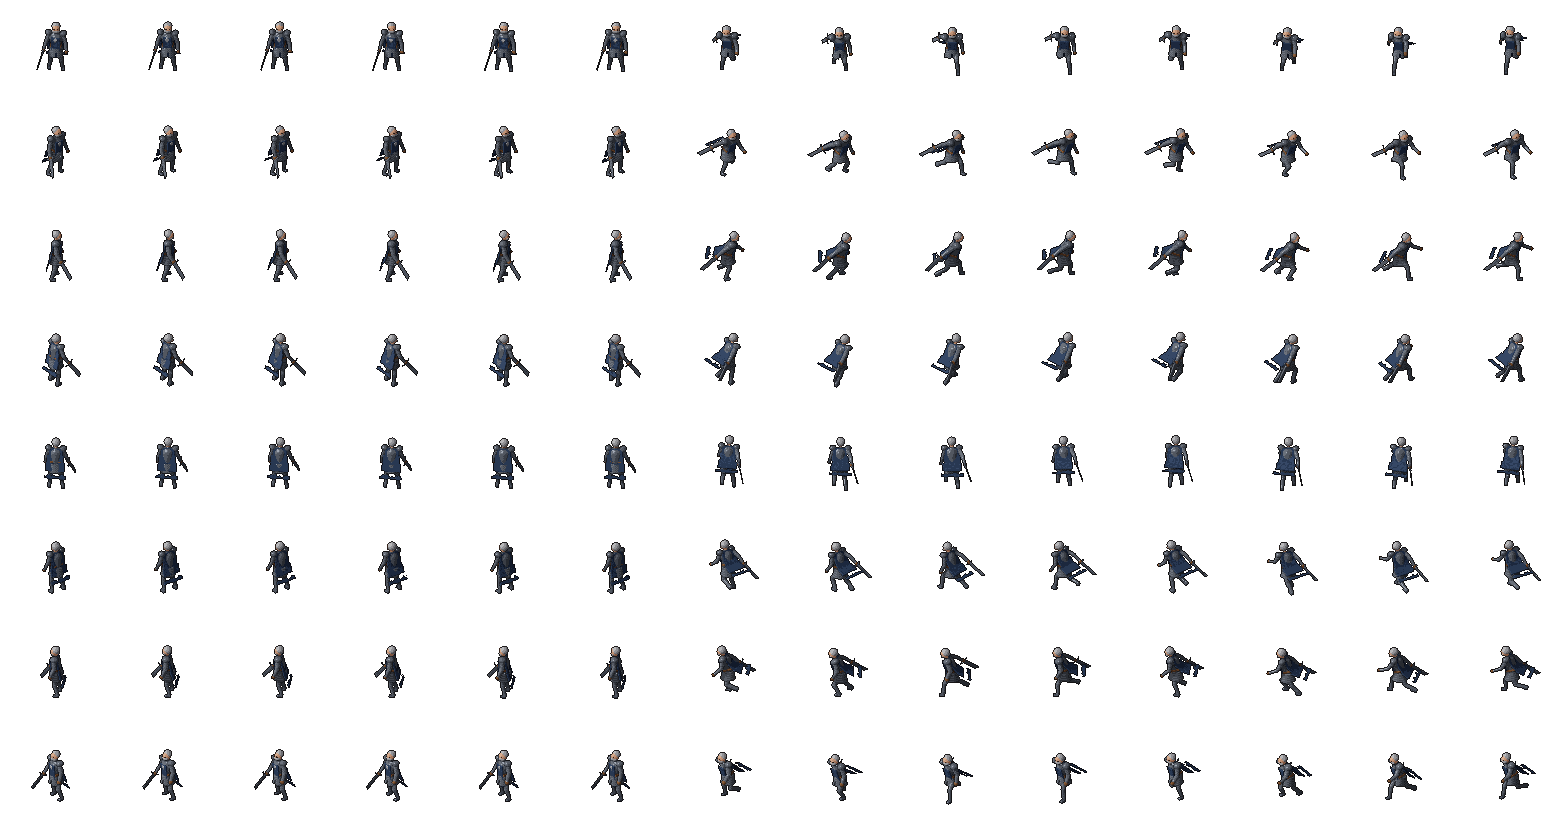
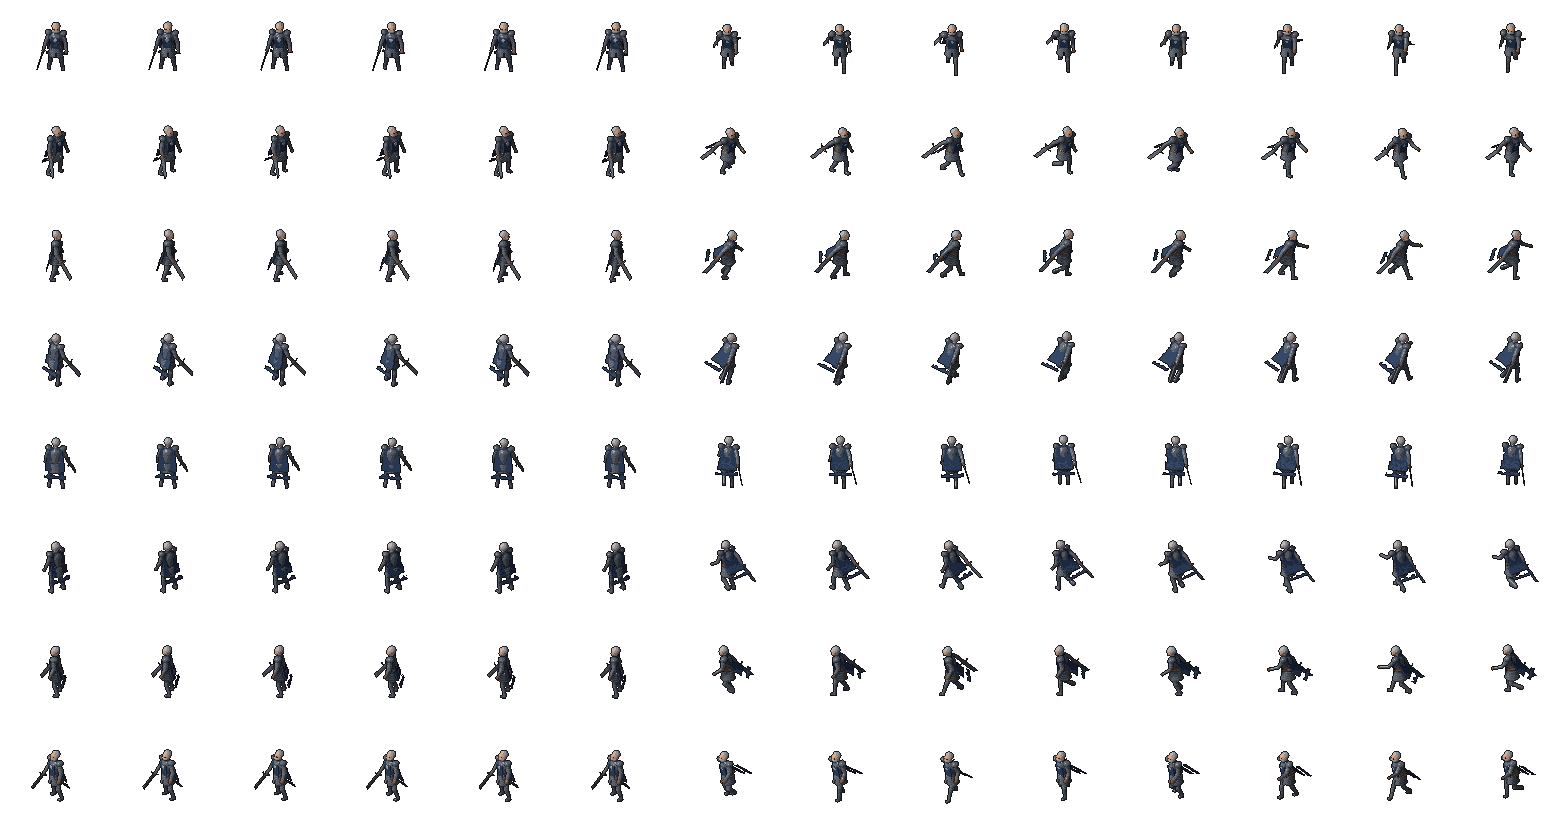
달리기 동작 자연스럽게: 보행 자료 기반 다리 곡선
- 고관절: 앞 24°·뒤 8°(기사 26°/10°)로 비대칭 — 예전 ±28°(기사 ±34°)는 다리가 쩍 벌어져 보였음
- 무릎: 딛는 동안 살짝 굽혀 충격 흡수, 공중에서만 접힘 / 발은 몸 밑 가운데로(옆 벌림 5→1.5)
- 몸 위아래는 세모꼴 파형(착지 직후 가장 낮게), 팔은 다리와 반대로
- 걷기 칸만 다시 굽기(rebake_walk.py): 3직업 + 사람형 몬스터, NPC 12명도 다시 굽기

Claude-Session: https://claude.ai/code/session_01VAPQ8PpUfMXFvxEVvViaXK

diff --git a/forgotten-forge/tools/lineage/humanoid.py b/forgotten-forge/tools/lineage/humanoid.py
@@ -775,6 +775,35 @@ ATK_BLADE = [
 LEG_KEYS = ('lhip', 'rhip', 'lhip_side', 'rhip_side', 'lknee', 'rknee')
 
 
+def _sstep(u):
+    u = min(1.0, max(0.0, u))
+    return u * u * (3 - 2 * u)
+
+
+def gait_leg(phi, fwd=24.0, back=8.0, knee_swing=52.0, duty=0.42):
+    """다리 한쪽의 (고관절 각, 무릎 각). phi: 0=발뒤꿈치 닿음(앞으로 가장 멀리) → 1 한 바퀴.
+    참고: 달리기 보행 자료(고관절 약 55° 굽힘 ~ 10° 폄, 무릎은 공중에서만 크게 접힘)를
+    작은 도트 캐릭터에 맞게 줄임 — 앞으로는 크게, 뒤로는 조금만 → 다리가 가랑이처럼 쩍 벌어지지 않음.
+    - 딛는 구간(0~duty): 고관절이 앞→뒤로 지나가며 몸을 밀고, 무릎은 착지 충격에 살짝 굽혔다 폄
+    - 공중 구간(duty~1): 뒷발이 땅을 차고 올라오며 무릎이 접히고(발이 엉덩이 쪽), 앞으로 뻗어 다시 착지"""
+    phi %= 1.0
+    if phi < duty:
+        u = phi / duty
+        hip = fwd + (-back - fwd) * _sstep(u)
+        knee = 10 + 12 * u + 14 * math.sin(math.pi * u)          # 착지 흡수 → 차고 나가기 직전
+    else:
+        u = (phi - duty) / (1 - duty)
+        hip = -back + (fwd + back) * _sstep(u * 1.08)            # 조금 일찍 앞으로 뻗어 착지 준비
+        knee = 22 * (1 - u) + 10 * u + knee_swing * math.sin(math.pi * min(1.0, u * 1.15)) ** 1.3
+    return hip, knee
+
+
+def gait_bob(t):
+    """몸 위아래: 한 걸음(반 바퀴)에 한 번, 착지 직후 가장 낮고 다리가 엇갈릴 때 가장 높음 — 사인 대신 세모꼴 파형."""
+    w = (t * 2 + 0.85) % 1.0
+    return 1 - abs(2 * w - 1)
+
+
 def pose_for(kind, anim, f, n):
     """kind: 'sword' | 'axe' | 'great' | 'bow' | 'staff'"""
     t = f / n
@@ -798,38 +827,37 @@ def pose_for(kind, anim, f, n):
         return Pose(**p)
 
     if anim == 'walk' and kind == 'blade':
-        # 참고 시트의 이동: 상체를 깊이 숙이고, 검은 뒤로 낮게 끌며, 망토는 크게 휘날림
+        # 기사 달리기: 상체를 앞으로 숙이고 검은 뒤로 낮게 끎. 다리는 보행 자료 곡선(앞 크게·뒤 작게), 발은 몸 밑으로
         sw = math.sin(ph)
         cw = math.cos(ph)
-        lift_l = max(0.0, cw) ** 1.3
-        lift_r = max(0.0, -cw) ** 1.3
-        contact = 1 - abs(cw)
-        p = dict(lhip=6 + 34 * sw, rhip=6 - 34 * sw,
-                 lknee=26 + 50 * lift_l + 10 * contact, rknee=26 + 50 * lift_r + 10 * contact,
-                 lhip_side=6, rhip_side=6, lean=20, twist=-8 * sw + 6, roll=2.5 * cw, head=-12 + 2 * contact,
-                 rsh=-38 - 8 * sw, rab=22, rel=12, wpn=-30, wpn_side=18,
-                 lsh=30 - 26 * sw, lab=16, lel=40, cape=15 + 5 * abs(cw), bob=0.4 * abs(math.sin(ph)))
+        lh, lk = gait_leg(t + 0.75, fwd=26, back=10, knee_swing=56)
+        rh, rk = gait_leg(t + 0.25, fwd=26, back=10, knee_swing=56)
+        p = dict(lhip=lh, rhip=rh, lknee=lk, rknee=rk,
+                 lhip_side=1.5, rhip_side=1.5, lean=14, twist=-7 * sw + 5, roll=1.6 * cw, head=-8,
+                 rsh=-34 - 10 * sw, rab=18, rel=14, wpn=-28, wpn_side=16,
+                 lsh=26 - 30 * sw, lab=12, lel=42, cape=13 + 5 * abs(cw), bob=0.15 + 0.55 * gait_bob(t))
         return Pose(**p)
 
     if anim == 'walk':
-        # 무기를 겨눈 채 낮은 자세로 걷기: 보폭은 넓고, 디딜 때 무릎으로 충격 흡수
+        # 가볍게 달리기: 보행 자료 곡선(앞 크게·뒤 작게) + 발은 몸 밑 가운데로, 팔은 다리와 반대로
         sw = math.sin(ph)
         cw = math.cos(ph)
-        lift_l = max(0.0, cw) ** 1.3
-        lift_r = max(0.0, -cw) ** 1.3
-        contact = 1 - abs(cw)
+        lh, lk = gait_leg(t + 0.75)
+        rh, rk = gait_leg(t + 0.25)
         p = dict(base)
-        p.update(lhip=4 + 28 * sw, rhip=-4 - 28 * sw,
-                 lknee=16 + 42 * lift_l + 8 * contact, rknee=16 + 42 * lift_r + 8 * contact,
-                 lhip_side=5, rhip_side=5,
-                 lean=base['lean'] + 1, twist=base['twist'] * 0.5 - 7 * sw, roll=2.2 * cw, head=1.5 * contact,
-                 head_yaw=base.get('head_yaw', 0) * 0.5, cape=9 + 5 * abs(cw))
+        p.update(lhip=lh, rhip=rh, lknee=lk, rknee=rk,
+                 lhip_side=1.5, rhip_side=1.5,
+                 lean=base['lean'] + 4, twist=base['twist'] * 0.4 - 6 * sw, roll=1.6 * cw, head=1.0,
+                 head_yaw=base.get('head_yaw', 0) * 0.4, cape=9 + 5 * abs(cw))
         if kind == 'staff':
-            p['lsh'] = base['lsh'] - 22 * sw
+            p['lsh'] = base['lsh'] - 26 * sw
+            p['lel'] = base.get('lel', 30) + 10
         elif kind != 'bow':
-            p['lsh'] = base['lsh'] - 8 * sw
-        p['rsh'] = base['rsh'] + 10 * sw
-        p['bob'] = 0.3 * abs(math.sin(ph))
+            p['lsh'] = base['lsh'] - 10 * sw
+        else:
+            p['lsh'] = base['lsh'] - 6 * sw
+        p['rsh'] = base['rsh'] + 14 * sw
+        p['bob'] = 0.15 + 0.55 * gait_bob(t)
         return Pose(**p)
 
     if anim == 'attack':

diff --git a/forgotten-forge/tools/lineage/rebake_walk.py b/forgotten-forge/tools/lineage/rebake_walk.py
@@ -1,0 +1,50 @@
+"""걷기(달리기) 동작만 다시 구워 기존 시트의 걷기 칸에 덮어쓴다(다른 동작·메타는 그대로).
+- 플레이어 3직업 + 사람형 몬스터(같은 보행 곡선 사용)
+실행: python3 forgotten-forge/tools/lineage/rebake_walk.py [이름 ...]
+"""
+import io
+import json
+import os
+import sys
+from multiprocessing import Pool
+
+from PIL import Image
+
+HERE = os.path.dirname(os.path.abspath(__file__))
+sys.path.insert(0, HERE)
+import build as B   # noqa: E402
+
+HUMANOID = ['knight', 'elf', 'mage', 'orc', 'skeleton', 'goblin', 'skeleton_archer', 'boss', 'wb_warlord', 'wb_lich']
+
+
+def main():
+    names = sys.argv[1:] or HUMANOID
+    mp = os.path.join(B.OUT, 'meta.json')
+    meta = json.load(open(mp, encoding='utf-8'))
+    tasks = []
+    for nm in names:
+        grp = 'characters' if nm in meta['characters'] else 'monsters'
+        st, n = meta[grp][nm]['anims']['walk']
+        tasks += [(nm, d, 'walk', f, n, None) for d in range(8) for f in range(n)]
+    with Pool(os.cpu_count() or 2) as pool:
+        res = {k: Image.open(io.BytesIO(v)).convert('RGBA') for k, v in pool.imap_unordered(B.render_frame, tasks, chunksize=4)}
+    for nm in names:
+        grp = 'characters' if nm in meta['characters'] else 'monsters'
+        s = meta[grp][nm]
+        path = os.path.join(B.OUT, s['sheet'])
+        sheet = Image.open(path).convert('RGBA')
+        st, n = s['anims']['walk']
+        for d in range(8):
+            for f in range(n):
+                x, y = (st + f) * s['fw'], d * s['fh']
+                sheet.paste((0, 0, 0, 0), (x, y, x + s['fw'], y + s['fh']))
+                fr = res[(nm, d, 'walk', f, 0)]
+                if fr.size != (s['fw'], s['fh']):
+                    sys.exit(f'{nm}: 프레임 크기 다름 {fr.size} != {(s["fw"], s["fh"])}')
+                sheet.alpha_composite(fr, (x, y))
+        sheet.save(path, optimize=True)
+        print('walk', nm, flush=True)
+
+
+if __name__ == '__main__':
+    main()
